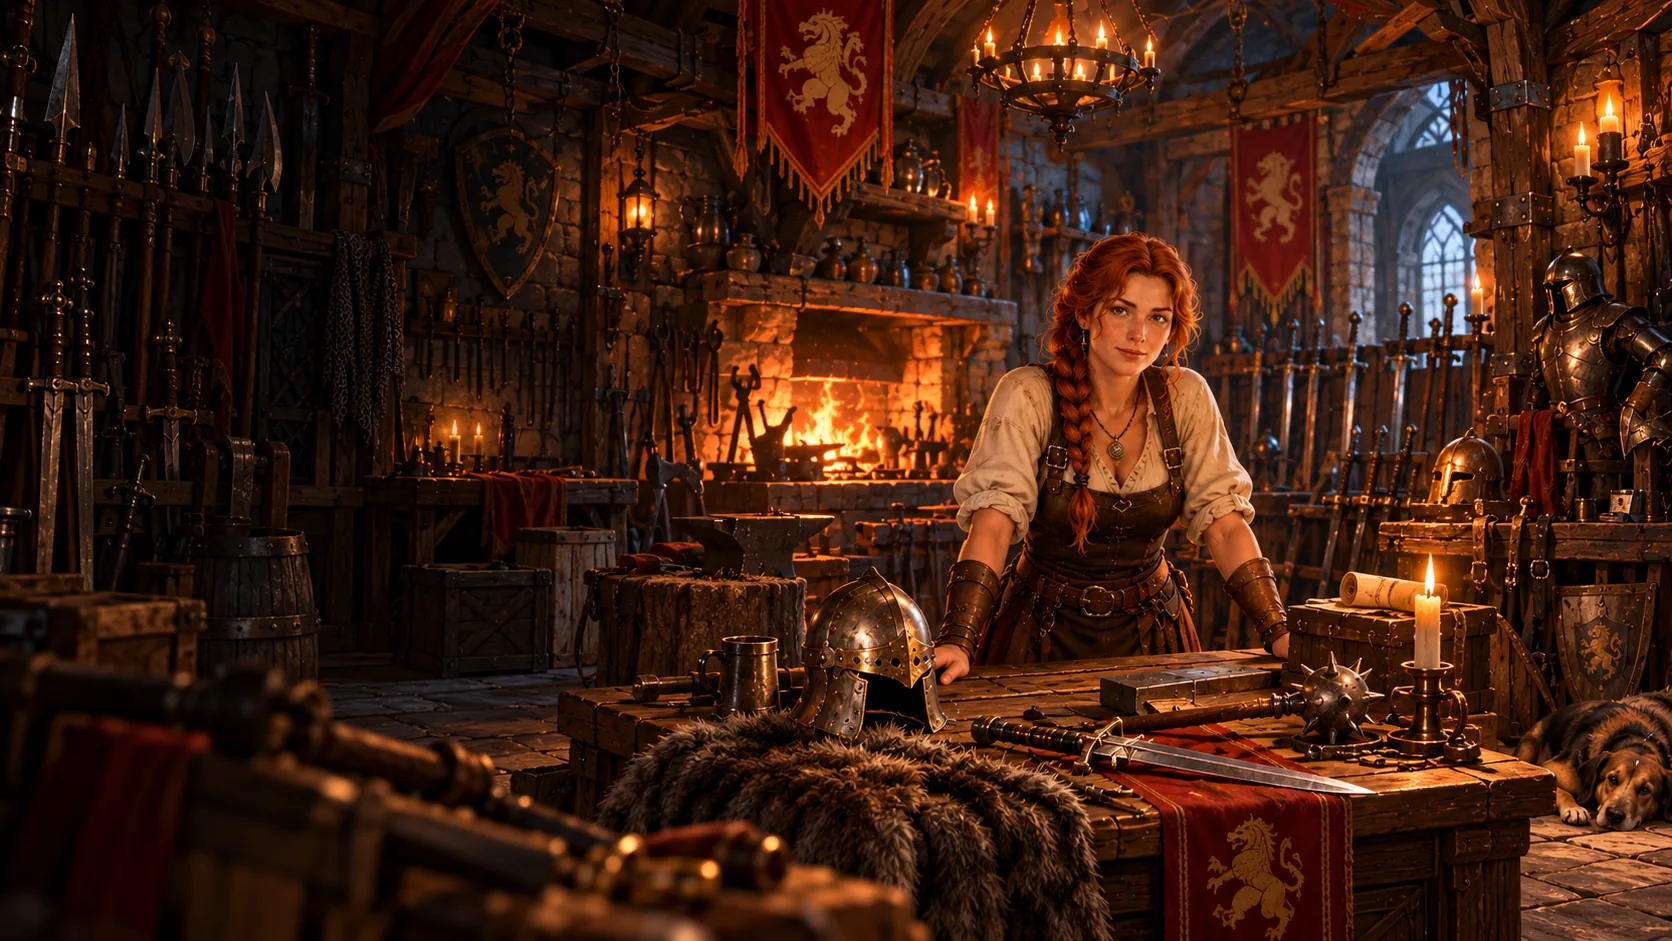
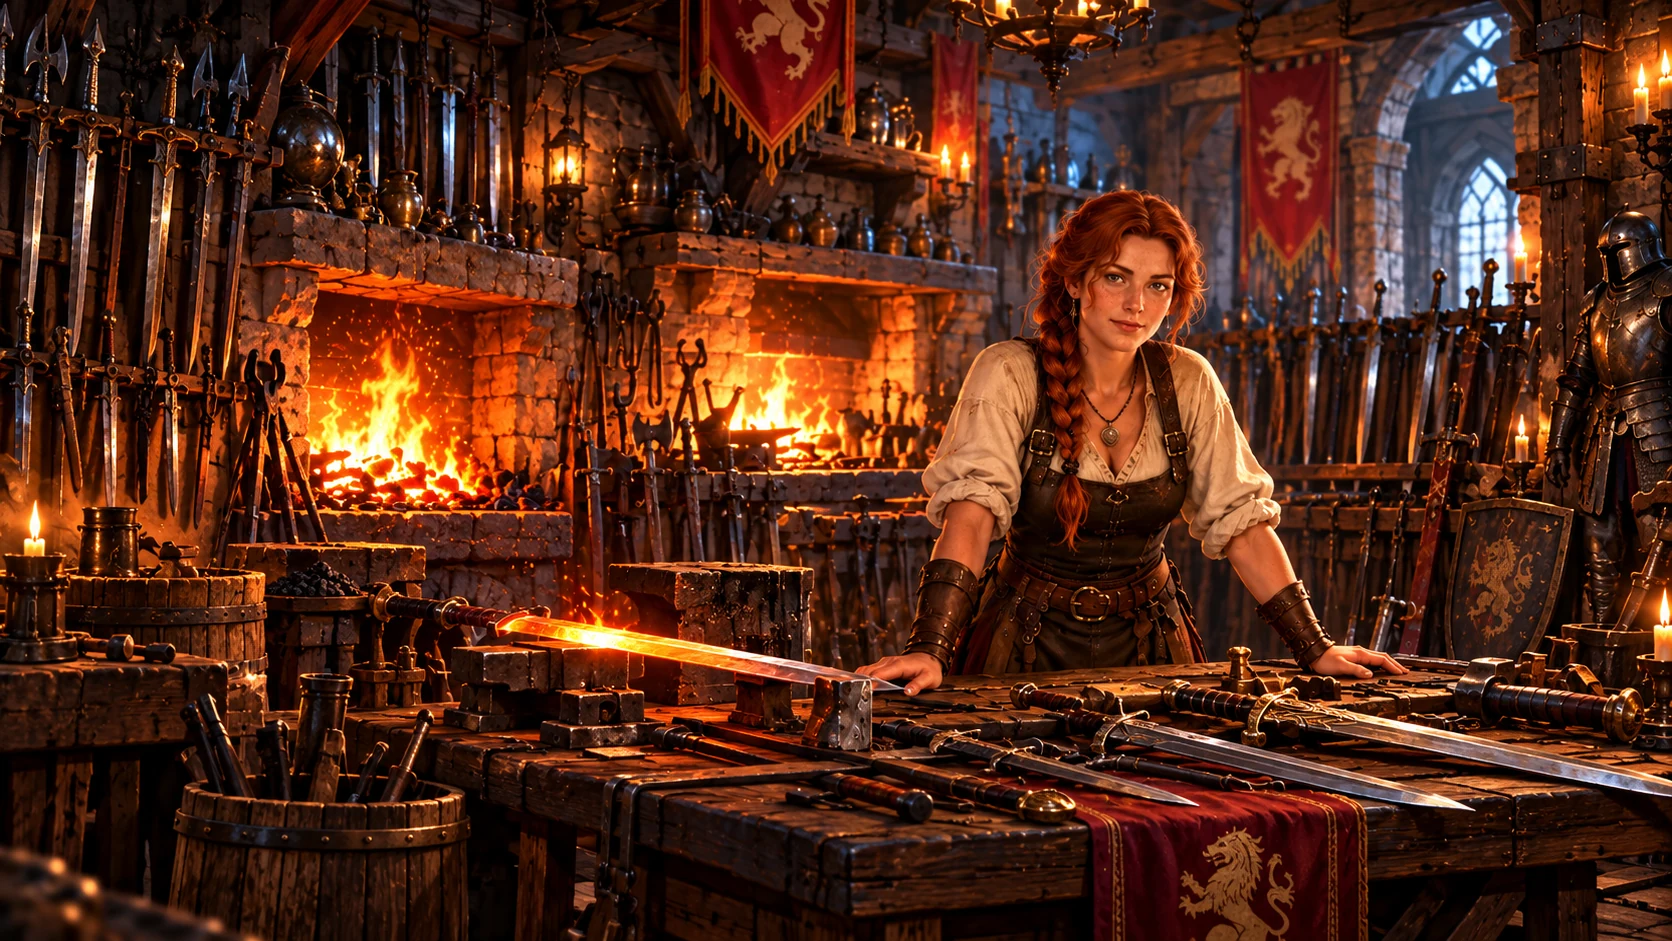
art(shops): showcase forged weapons instead of helmet at Brunna

diff --git a/docs/shop-room-art-acceptance.md b/docs/shop-room-art-acceptance.md
@@ -10,3 +10,7 @@ Brunna is the pictorial reference; Odo and the Guild remain vector art until gen
 - Update the source map in `chroniclesShopRooms.js`, the art acceptance assertions and the exact source expectation in `smoke/shop-room.mjs` for replacements. Do not weaken the minimum dimensions.
 - The art-only screenshots are generated by ephemeral styles **inside Chromium smoke**, and cannot remove production controls.
 - Verify frontend tests, real browser smoke and all three CI gates for the SHA before merging; confirm staging deployment independently through shadowops-infra.
+
+## Brunna's actual merchandise (weapons, not armor)
+
+Brunna is the **weaponsmith**, so the main counter composition should show unfinished and finished **blades, axes, and weapon-making tools**, not a foreground helmet sold as the hero object. The armored mannequin deep in the environment can stay as world dressing. The composition must still leave Brunna's face uncovered between the two live React panels at 390/844/1280 widths. The previous Brunna background remains recoverable from Git history; don't silently overwrite masters outside the repository.
